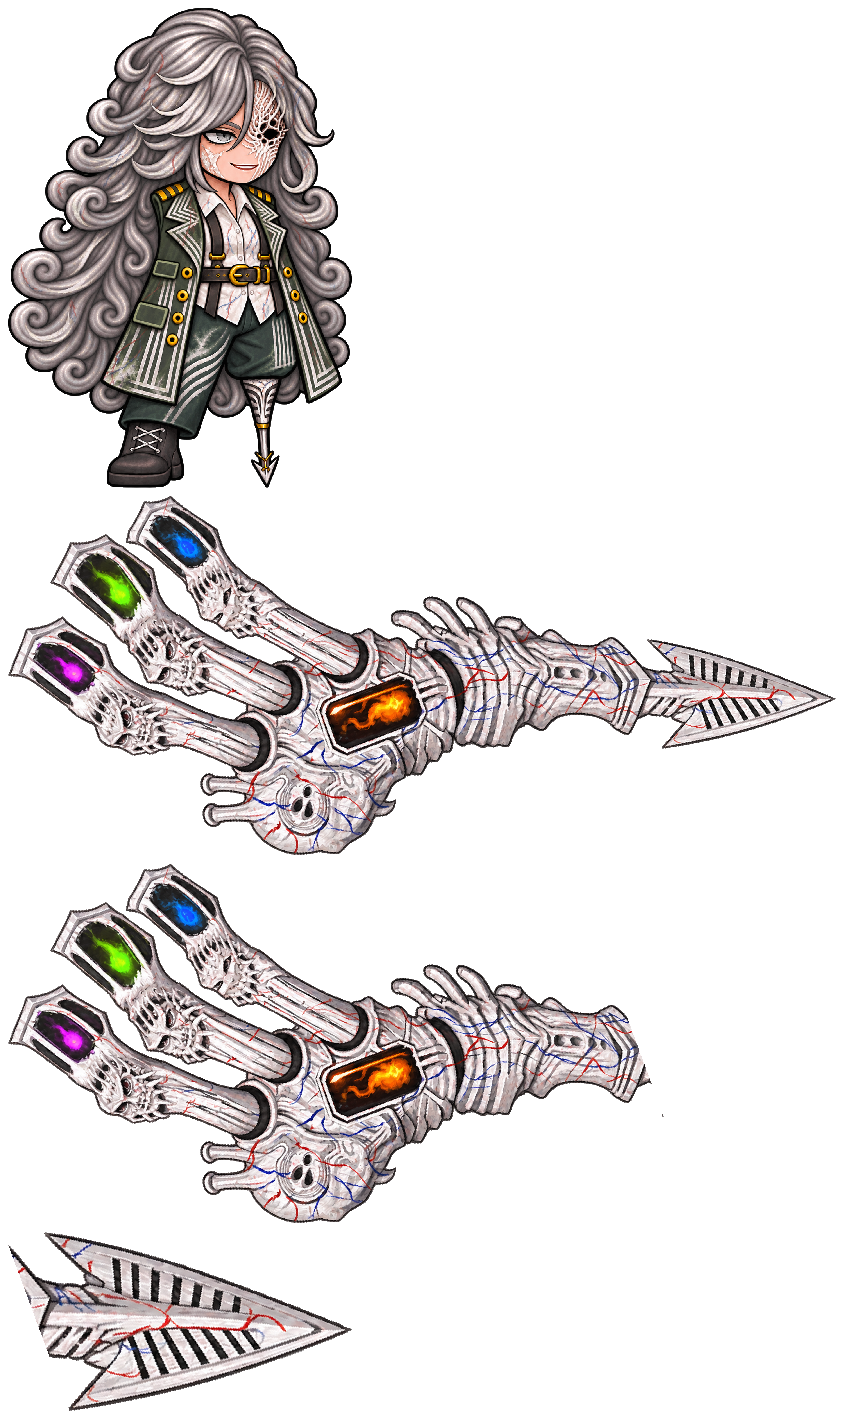
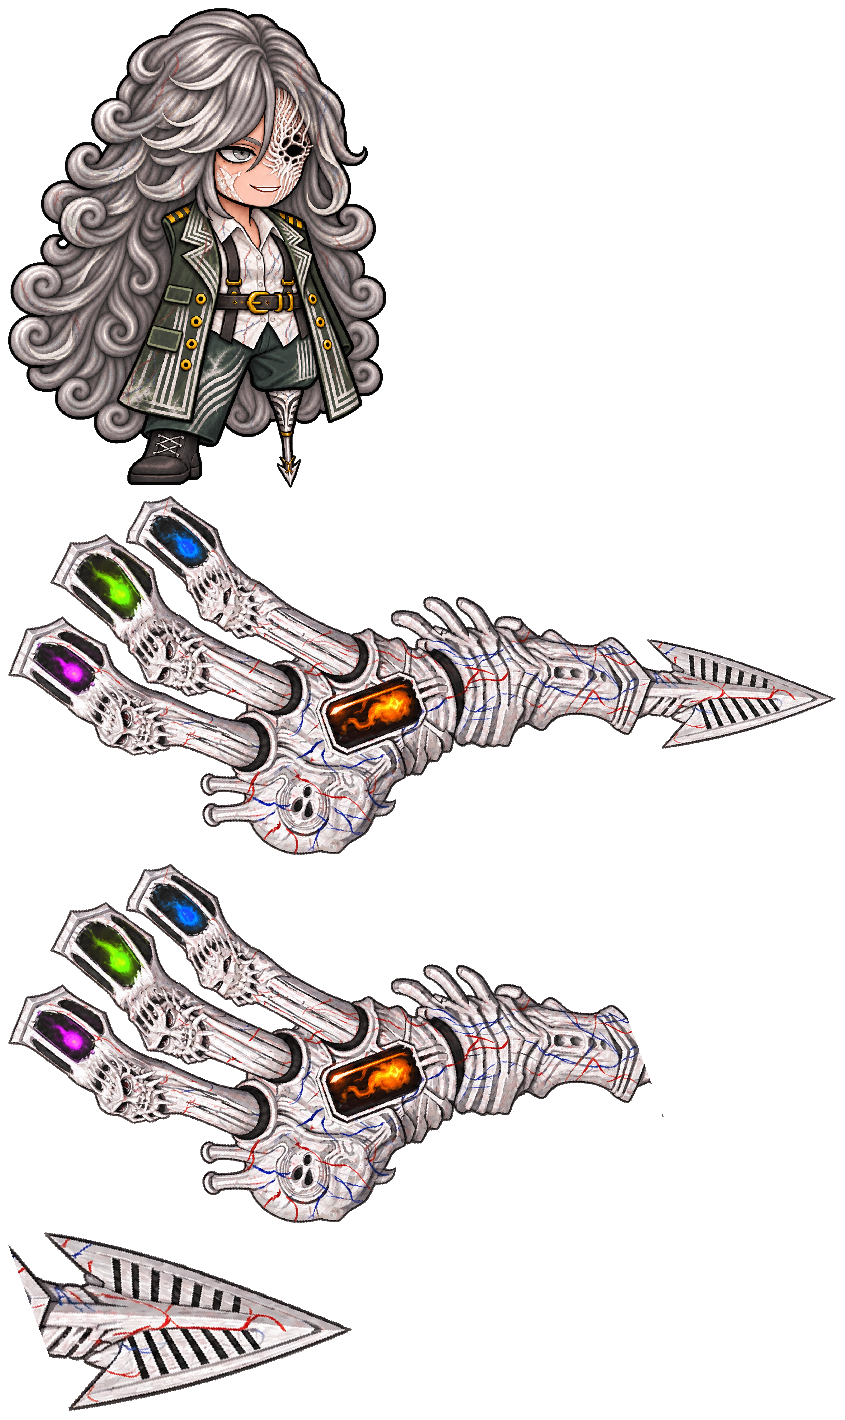
Restore Ahab EGO body and align facial features and shoulder rig

Changed region(s): [[0.0, 0.0, 0.4615, 0.3408]]

diff --git a/tests/ahab-ego.test.js b/tests/ahab-ego.test.js
@@ -6,7 +6,7 @@ import * as Ego from '../src/ahab-ego.js';
 import * as Skills from '../src/skills.js';
 import * as Training from '../src/training.js';
 import {skillTargeting} from '../src/targeting.js';
-import {visualForm,FRAMES} from '../src/art.js';
+import {visualForm,FRAMES,spriteHeight} from '../src/art.js';
 import {equippedWeapon,gasharpoonArmPose} from '../src/weapon-art.js';
 import {goldenSkillReference,goldenUltimateReference} from '../src/skill-reference.js';
 import {mobileSkillHelp} from '../src/mobile-score.js';
@@ -34,3 +34,14 @@ test('basic and ultimate impacts use piercing audio; tactical impacts use blunt 
 test('snapshot transfers transformation, single-use flags, channel pose, fixed ammunition and projectile flags',()=>{const{g,p}=arena();transform(g,p);g.attack(p,g.input.aim);advance(g,.21);g.cast(p,'r',g.input.aim);advance(g,.51);const packet=JSON.parse(JSON.stringify(new SnapshotWriter().capture(g,true))),guest=new Game('faust','top',{mode:'training'});assert.ok(applySnapshot(guest,packet,p.id));assert.equal(guest.player.state.gasharpoon.ammo,0);assert.equal(guest.player.state.gasharpoon.rUsed,true);assert.ok(guest.projectiles[0].hitIds instanceof Set);assert.equal(visualForm(guest,guest.player),'ahabGasBody');assert.equal(equippedWeapon(guest,guest.player)[0],'ahabGasArmEmpty');assert.ok(Number.isFinite(gasharpoonArmPose(guest,guest.player).angle));});
 
 test('training sell-all clears the transformed form and its unfinished channel',()=>{const{g,p}=arena();transform(g,p);g.cast(p,'q',g.input.aim);Training.sellAll(g);assert.equal(Ego.active(p),false);assert.equal(p.goldenBough,undefined);advance(g,1);assert.equal(g.projectiles.length,0);assert.equal(visualForm(g,p),'ahab');});
+
+const bodyPoint=(key,[x,y])=>{const f=FRAMES[key],h=spriteHeight(key),w=h*f.w/f.h;return{x:(x/f.w-f.foot[0])*w,y:(y/f.h-f.foot[1])*h};};
+test('EGO face registration aligns the visible eye, nose, mouth and jaw without counting the hat',()=>{
+ const f=FRAMES.ahabGasBody;assert.equal(f.heightBasis,'face-landmarks');assert.notEqual(spriteHeight('ahabGasBody'),spriteHeight('ahab'));
+ for(const p of f.faceAlignment.landmarks){const a=bodyPoint('ahabGasBody',p.source),b=bodyPoint('ahab',p.target);assert.ok(Math.hypot(a.x-b.x,a.y-b.y)<.008,p.name);}
+ const h=spriteHeight('ahabGasBody'),w=h*f.w/f.h;close(w/h,f.w/f.h);
+});
+test('EGO arm stays attached to the near left shoulder when looking right and mirrors when looking left',()=>{
+ const{g,p}=arena();transform(g,p);const shoulder=bodyPoint('ahabGasBody',FRAMES.ahabGasBody.shoulder);
+ for(const facing of[0,Math.PI]){p.facing=facing;const flip=facing===0?1:-1,pose=gasharpoonArmPose(g,p),origin={x:p.x,y:p.y+.3+Math.sin(g.time*3+p.id)*.025};close(pose.hand.x-origin.x,shoulder.x*flip);close(pose.hand.y-origin.y,shoulder.y-.08);close(pose.angle,Math.PI/2-flip*Math.PI/12);assert.ok(-Math.cos(pose.angle)*flip<0);}
+});

diff --git a/tests/nov15-adjustments.test.js b/tests/nov15-adjustments.test.js
@@ -48,7 +48,7 @@ test('random echo lances stay inside the actual fan and the penance blade fits t
  const m=weaponGeometry('ahabGasBlade',gasharpoonProjectileLength());near(m.height*m.scale,.9);
 });
 test('EGO arm is mirrored at its shoulder and basic fire uses a small varied tremor',()=>{
- const{g,p}=arena('ahab');Ego.begin(g,p);g.attack(p,g.input.aim);const values=[];for(const t of[.02,.05,.09,.14,.18]){g.time=t;const pose=gasharpoonArmPose(g,p);assert.equal(pose.mirrorX,true);assert.ok(pose.hand.x>p.x);assert.ok(Math.abs(pose.push)<.14);values.push(pose.push);}assert.ok(Math.max(...values)-Math.min(...values)>.005);
+ const{g,p}=arena('ahab');Ego.begin(g,p);g.attack(p,g.input.aim);const values=[];for(const t of[.02,.05,.09,.14,.18]){g.time=t;const pose=gasharpoonArmPose(g,p);assert.equal(pose.mirrorX,true);assert.ok(pose.hand.x<p.x);assert.ok(Math.abs(pose.push)<.14);values.push(pose.push);}assert.ok(Math.max(...values)-Math.min(...values)>.005);
 });
 test('Ahab separate EGO codex keeps four skills while Sora still has three transformed slots',()=>{
  const f=championForms('ahab').transformed;assert.equal(f.name,'개화 E.G.O 상태');assert.equal(f.art,'ahabGasBody');assert.equal(f.skills.length,4);assert.equal(championForms('sora').transformed.skills.length,3);assert.equal(championDescription('sora',true).ultimate,'');
@@ -58,6 +58,6 @@ test('Ahab separate EGO codex keeps four skills while Sora still has three trans
 
 test('Mei idle fists sit between chest and waist; EGO idle blade points downward on both facings',()=>{
  const{g,p}=arena();for(const f of meiFistPoses(g,p))near(f.y,spriteOrigin(g,p).y-.94);
- const a=arena('ahab');Ego.begin(a.g,a.p);for(const facing of[0,Math.PI]){a.p.facing=facing;near(gasharpoonArmPose(a.g,a.p).angle,Math.PI/2);}
- a.g.attack(a.p,a.g.input.aim);advance(a.g,.25);assert.ok(Math.abs(gasharpoonArmPose(a.g,a.p).angle)<.03);advance(a.g,1);near(gasharpoonArmPose(a.g,a.p).angle,Math.PI/2);
+ const a=arena('ahab');Ego.begin(a.g,a.p);for(const facing of[0,Math.PI]){a.p.facing=facing;near(gasharpoonArmPose(a.g,a.p).angle,Math.PI/2-(facing===0?1:-1)*Math.PI/12);}
+ a.g.attack(a.p,a.g.input.aim);advance(a.g,.25);assert.ok(Math.abs(gasharpoonArmPose(a.g,a.p).angle)<.03);advance(a.g,1);near(gasharpoonArmPose(a.g,a.p).angle,Math.PI/2-Math.PI/12);
 });

diff --git a/src/weapon-art.js b/src/weapon-art.js
@@ -464,12 +464,12 @@ function drawBloodSweep(r,e,g,lift,layer){
 }
 
 export function gasharpoonArmPose(g,e,lift=0){
- const s=e.state.gasharpoon,origin=spriteOrigin(g,e,lift),flip=Math.cos(bodyFacing(g,e))<0?-1:1,ch=s.channel,thrust=s.thrust,age=thrust?g.time-thrust.at:-Infinity;
- const holding=age>=0&&g.time<thrust.until+.14,raise=ch?Math.min(1,Math.max(0,(g.time-ch.at)/.07)):holding?Math.min(1,Math.max(0,(g.time-(thrust.poseAt??thrust.at))/.07))*Math.min(1,Math.max(0,(thrust.until+.14-g.time)/.14)):0,aim=ch?.angle??(holding?thrust.angle:Math.PI/2);
- let angle=Math.PI/2+Math.atan2(Math.sin(aim-Math.PI/2),Math.cos(aim-Math.PI/2))*raise,push=0;
+ const s=e.state.gasharpoon,origin=spriteOrigin(g,e,lift),flip=Math.cos(bodyFacing(g,e))<0?-1:1,ch=s.channel,thrust=s.thrust,age=thrust?g.time-thrust.at:-Infinity,body=FRAMES.ahabGasBody,height=2.1*body.heightScale,width=height*body.w/body.h,shoulder={x:(body.shoulder[0]/body.w-body.foot[0])*width,y:(body.shoulder[1]/body.h-body.foot[1])*height};
+ const restAngle=Math.PI/2-flip*Math.PI/12,holding=age>=0&&g.time<thrust.until+.14,raise=ch?Math.min(1,Math.max(0,(g.time-ch.at)/.07)):holding?Math.min(1,Math.max(0,(g.time-(thrust.poseAt??thrust.at))/.07))*Math.min(1,Math.max(0,(thrust.until+.14-g.time)/.14)):0,aim=ch?.angle??(holding?thrust.angle:restAngle);
+ let angle=restAngle+Math.atan2(Math.sin(aim-restAngle),Math.cos(aim-restAngle))*raise,push=0;
  if(ch){const progress=Math.max(0,Math.min(1,(g.time-ch.at)/.5));push=ch.slot==='q'?-.42*progress:Math.sin(g.time*(65+progress*70))*.045*progress;}
  else if(age>=0&&g.time<thrust.until){if(thrust.slot==='basic'){const fade=Math.sin(Math.min(1,age/.2)*Math.PI);push=(.09+Math.sin(g.time*83)*.018+Math.sin(g.time*127)*.009)*fade;angle+=Math.sin(g.time*99)*.012*fade;}else push=.48*Math.sin(age/.24*Math.PI);}
- return {hand:{x:origin.x+(.85-.47*raise)*flip,y:origin.y-1.42+.37*raise},angle,push,mirrorX:true};
+ return {hand:{x:origin.x+shoulder.x*flip,y:origin.y+shoulder.y-.08*(1-raise)},angle,push,mirrorX:true};
 }
 export function drawGasharpoonArm(r,e,g,lift=0){
  const c=r.ctx,pose=gasharpoonArmPose(g,e,lift),[key,len,pivot]=equippedWeapon(g,e),f=FRAMES[key],m=weaponGeometry(key,len);

diff --git a/src/ahab-ego-sprites.js b/src/ahab-ego-sprites.js
@@ -3,23 +3,97 @@ export const AHAB_EGO_FRAMES={
   "ahabGasBody": {
     "x": 8,
     "y": 8,
-    "w": 345,
+    "w": 379,
     "h": 480,
     "sheet": 23,
     "rotation": 0,
     "source": "source/ahab-gasharpoon-body.png",
-    "heightScale": 1,
-    "heightBasis": "crown",
-    "referenceHeight": 480,
+    "heightScale": 1.052319264521521,
+    "heightBasis": "face-landmarks",
+    "referenceHeight": 456.135334762926,
     "foot": [
-      0.55,
-      1
+      0.6469081889223237,
+      1.0028801952001325
     ],
     "face": [
-      179.4,
+      197.08,
       62.400000000000006,
-      106.95,
+      117.49,
       139.2
+    ],
+    "faceAlignment": {
+      "reference": "ahab",
+      "scale": 0.8769327204346009,
+      "offset": [
+        2.113702845420363,
+        25.378737226000084
+      ],
+      "landmarks": [
+        {
+          "name": "visibleEye",
+          "source": [
+            232,
+            145
+          ],
+          "target": [
+            205,
+            153
+          ],
+          "weight": 3
+        },
+        {
+          "name": "nose",
+          "source": [
+            269,
+            166
+          ],
+          "target": [
+            239,
+            170
+          ],
+          "weight": 1
+        },
+        {
+          "name": "mouth",
+          "source": [
+            256,
+            181
+          ],
+          "target": [
+            226,
+            184
+          ],
+          "weight": 3
+        },
+        {
+          "name": "chin",
+          "source": [
+            258,
+            199
+          ],
+          "target": [
+            229,
+            200
+          ],
+          "weight": 3
+        },
+        {
+          "name": "jaw",
+          "source": [
+            209,
+            178
+          ],
+          "target": [
+            186,
+            181
+          ],
+          "weight": 1
+        }
+      ]
+    },
+    "shoulder": [
+      164,
+      210
     ]
   },
   "ahabGasArm": {

diff --git a/tests/ahab_ego_browser.py b/tests/ahab_ego_browser.py
@@ -1,8 +1,11 @@
 """Actual PC/mobile/standalone rendering and input checks for GasHarpoon."""
-import asyncio,os,re
+import asyncio,os,re,json
 from pathlib import Path
 from playwright.async_api import async_playwright,expect
 ROOT=Path(__file__).resolve().parents[1]
+BASE_FRAME=json.loads((ROOT/'src/assets/sprites-v36.json').read_text())['frames']['ahab']
+EGO_FRAME=json.loads((ROOT/'src/assets/ahab-gasharpoon.json').read_text())['frames']['ahabGasBody']
+CAPTURE_BODY='''async frame=>{const c=__moba.renderer.ctx,draw=c.drawImage;let bounds=null;c.drawImage=function(...a){if(a.length===9&&a[1]===frame.x&&a[2]===frame.y&&a[3]===frame.w&&a[4]===frame.h)bounds=a.slice(5);return draw.apply(this,a);};try{await new Promise(resolve=>requestAnimationFrame(()=>requestAnimationFrame(resolve)));}finally{c.drawImage=draw;}return bounds;}'''
 ART=ROOT/'artifacts/ahab-ego';ART.mkdir(parents=True,exist_ok=True)
 SETUP=re.search(r"SETUP='''(.*?)'''",(ROOT/'tests/champion-refresh_browser.py').read_text(),re.S).group(1)
 async def main():
@@ -24,8 +27,15 @@ async def main():
    await page.goto(url,wait_until='networkidle',timeout=90000)
    await page.click('#training-open');await page.get_by_role('button',name=re.compile(r'^에이해브 선택')).click();await page.click('#start');await page.wait_for_timeout(300)
    await page.evaluate(SETUP,'ahab')
+   base_bounds=await page.evaluate(CAPTURE_BODY,BASE_FRAME)
    await page.evaluate("()=>{const g=__moba.game,p=g.player;g.buyAugment(p,'goldenBough');target(47);g.cast(p,'r',p);}")
    await page.wait_for_timeout(500)
+   ego_bounds=await page.evaluate(CAPTURE_BODY,EGO_FRAME)
+   assert base_bounds and ego_bounds,(base_bounds,ego_bounds)
+   for landmark in EGO_FRAME['faceAlignment']['landmarks']:
+    a=[ego_bounds[i]+landmark['source'][i]/[EGO_FRAME['w'],EGO_FRAME['h']][i]*ego_bounds[i+2] for i in range(2)]
+    b=[base_bounds[i]+landmark['target'][i]/[BASE_FRAME['w'],BASE_FRAME['h']][i]*base_bounds[i+2] for i in range(2)]
+    assert sum((a[i]-b[i])**2 for i in range(2))**.5<.008,(label,landmark['name'],a,b)
    assert await page.locator('#basic-btn span').inner_text()=='탄식의 메아리',(errors,await page.locator('#basic-btn span').inner_text(),await page.evaluate('({state:__moba.game.player.state,training:__moba.game.training,gift:__moba.game.player.goldenBough,mode:__moba.mode})'))
    assert await page.locator('#q-btn span').inner_text()=='죄책감의 무게'
    assert await page.locator('#r-btn span').inner_text()=='탈색된 참회'

diff --git a/AGENTS.md b/AGENTS.md
@@ -277,6 +277,8 @@
 
 - 메이 연무권은 착지 후 자신 중심 반경1.6 원형을0.15초마다 타격하며 양 주먹이 몸통 중심(spriteOrigin.y−.65)을 같은 축으로 한 바퀴씩 회전한다(오른손 반시계/왼손 시계, 마지막은 전방 찌르기). 기본 자세는 가슴과 허리 사이 높이·양 주먹15도 아래·왼손을 몸체 뒤에 그린다. 정주에는 전방 주먹 내지르기, 회축 재사용 중 반경3.6의 옅은 범위 표시·사용 중 메이를 따르는 약한 화염 소용돌이와 바닥 화염, 철산고 실제 돌진 중에는 발을 고정한 방향별 상체 기울기를 적용한다. 화염 장판은 연출이며 별도 피해를 주지 않는다. 초상화는 portrait-framing의 넓은 크롭을 공통 적용하고 원본 몸체·주먹 PNG는 유지한다. 메이 연타0.15초는 장전0.75초와 함께 정밀값으로 계산한다.
 
-- 11월15일: 메이 Q/R은 비챔피언에게 경로 피해를 주며 관통하고 첫 적 챔피언에서 멈춘다. R 기절은 챔피언에게만 적용하고 몸체 광원은 점진적으로 사라진다. 여왕의 흰 날개와 노스페라투의 붉은 코트 어깨는 arcana-bodies-v102.png 최신 원본이다. 에이해브 개화 E.G.O 몸체는 기본 몸체의 머리·신체 비율을 따른 최신 원본이며 의수는 좌우반전 후 날을 조준 방향에 맞춘다. 변신 중 일반 전술기의 엄호·전가·방어/이동/장전 효과 및 표시는 비활성화하고 종료 시 살아 있는 기존 효과를 복구한다. 탄식은 고정1탄창·0.2초마다5회자동공격, 무작위 흰 작살·약한 의수 떨림이며 전술기는 흰색 주색/파랑 보조다. 이펙트는 실제 부채꼴/투사체 폭 안으로 제한한다. 도감은 기본/개화 E.G.O 상태 전환과 변신 상태의4개 기술 슬롯을 지원하며 기본 패시브 링크도 변신 도감으로 전환한다.
+- 11월15일: 메이 Q/R은 비챔피언에게 경로 피해를 주며 관통하고 첫 적 챔피언에서 멈춘다. R 기절은 챔피언에게만 적용하고 몸체 광원은 점진적으로 사라진다. 여왕의 흰 날개와 노스페라투의 붉은 코트 어깨는 arcana-bodies-v102.png 최신 원본이다. 에이해브 개화 E.G.O 몸체는 332502c의 원본을 사용하고 모자 높이를 제외한 눈·코·입·턱선 기준으로 기본 몸체와 표시 배율·위치를 맞추며 의수는 좌우반전 후 날을 조준 방향에 맞춘다. 변신 중 일반 전술기의 엄호·전가·방어/이동/장전 효과 및 표시는 비활성화하고 종료 시 살아 있는 기존 효과를 복구한다. 탄식은 고정1탄창·0.2초마다5회자동공격, 무작위 흰 작살·약한 의수 떨림이며 전술기는 흰색 주색/파랑 보조다. 이펙트는 실제 부채꼴/투사체 폭 안으로 제한한다. 도감은 기본/개화 E.G.O 상태 전환과 변신 상태의4개 기술 슬롯을 지원하며 기본 패시브 링크도 변신 도감으로 전환한다.
 
-- 메이 기본 주먹 높이는 최신 요청에 따라 spriteOrigin.y−.94이며 기본공격의 몸통 회전축은 유지한다. 개화 E.G.O 에이해브의 기본 의수는 작살날이 아래(π/2)를 향하며, 기술 사용 시 조준 방향으로 들어 올리고 공격 후 다시 내린다. 아래 자세에서 날이 발밑을 지나지 않도록 장착 높이를 조절한다.
+- 메이 기본 주먹 높이는 최신 요청에 따라 spriteOrigin.y−.94이며 기본공격의 몸통 회전축은 유지한다. 개화 E.G.O 에이해브의 기본 의수는 작살날이 아래를 향하되 어깨쪽은 얼굴 바깥으로15도 기울며, 기술 사용 시 조준 방향으로 들어 올리고 공격 후 다시 내린다. 아래 자세에서 날이 발밑을 지나지 않도록 장착 높이를 조절한다.
+
+- 개화 E.G.O 에이해브는 332502c의 ahab-gasharpoon-body.png 원본을 사용한다. 모자 높이·PNG 전체 높이를 기준으로 맞추지 않고, import-ahab-ego.mjs의 눈·코·입·턱선 대응점으로 균일 배율과 위치를 계산한다. 원본 종횡비는 유지하며 faceAlignment와 계산된 heightScale/foot을 몸체·도감·잔상에 공통 사용한다. 의수는 해당 몸체의 화면 왼쪽 어깨 기준점(프레임 좌표164,210)을 회전축으로 사용하고 좌측 시선에서는 대칭이다. 기본 자세에서 의수의 위쪽 어깨 부분은 오른쪽 시선 기준15도 좌측으로 기울어 얼굴을 가리지 않으며 반대 시선에서는 대칭이다. 들어 올리기·떨림·반전은 유지한다.
